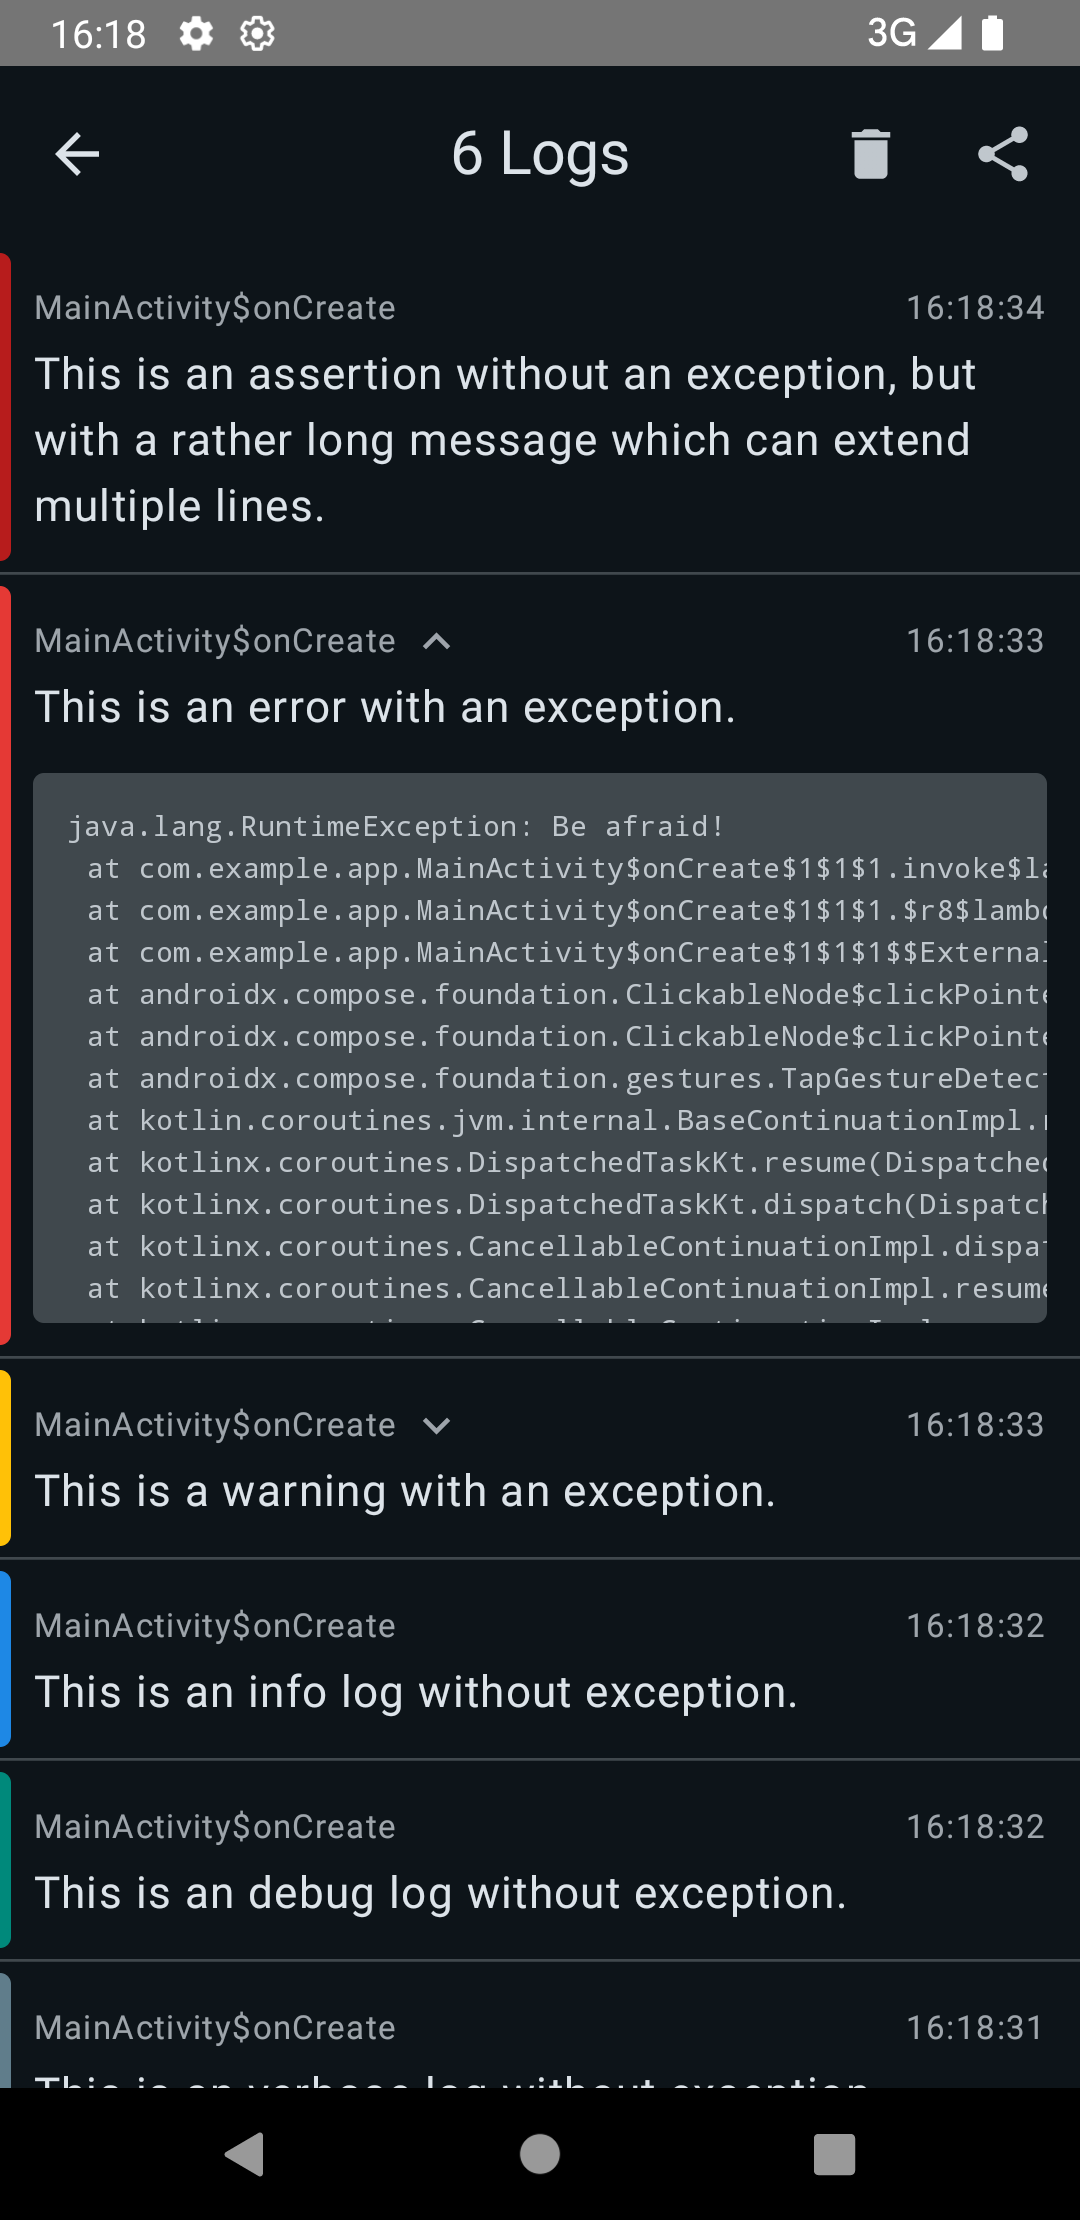
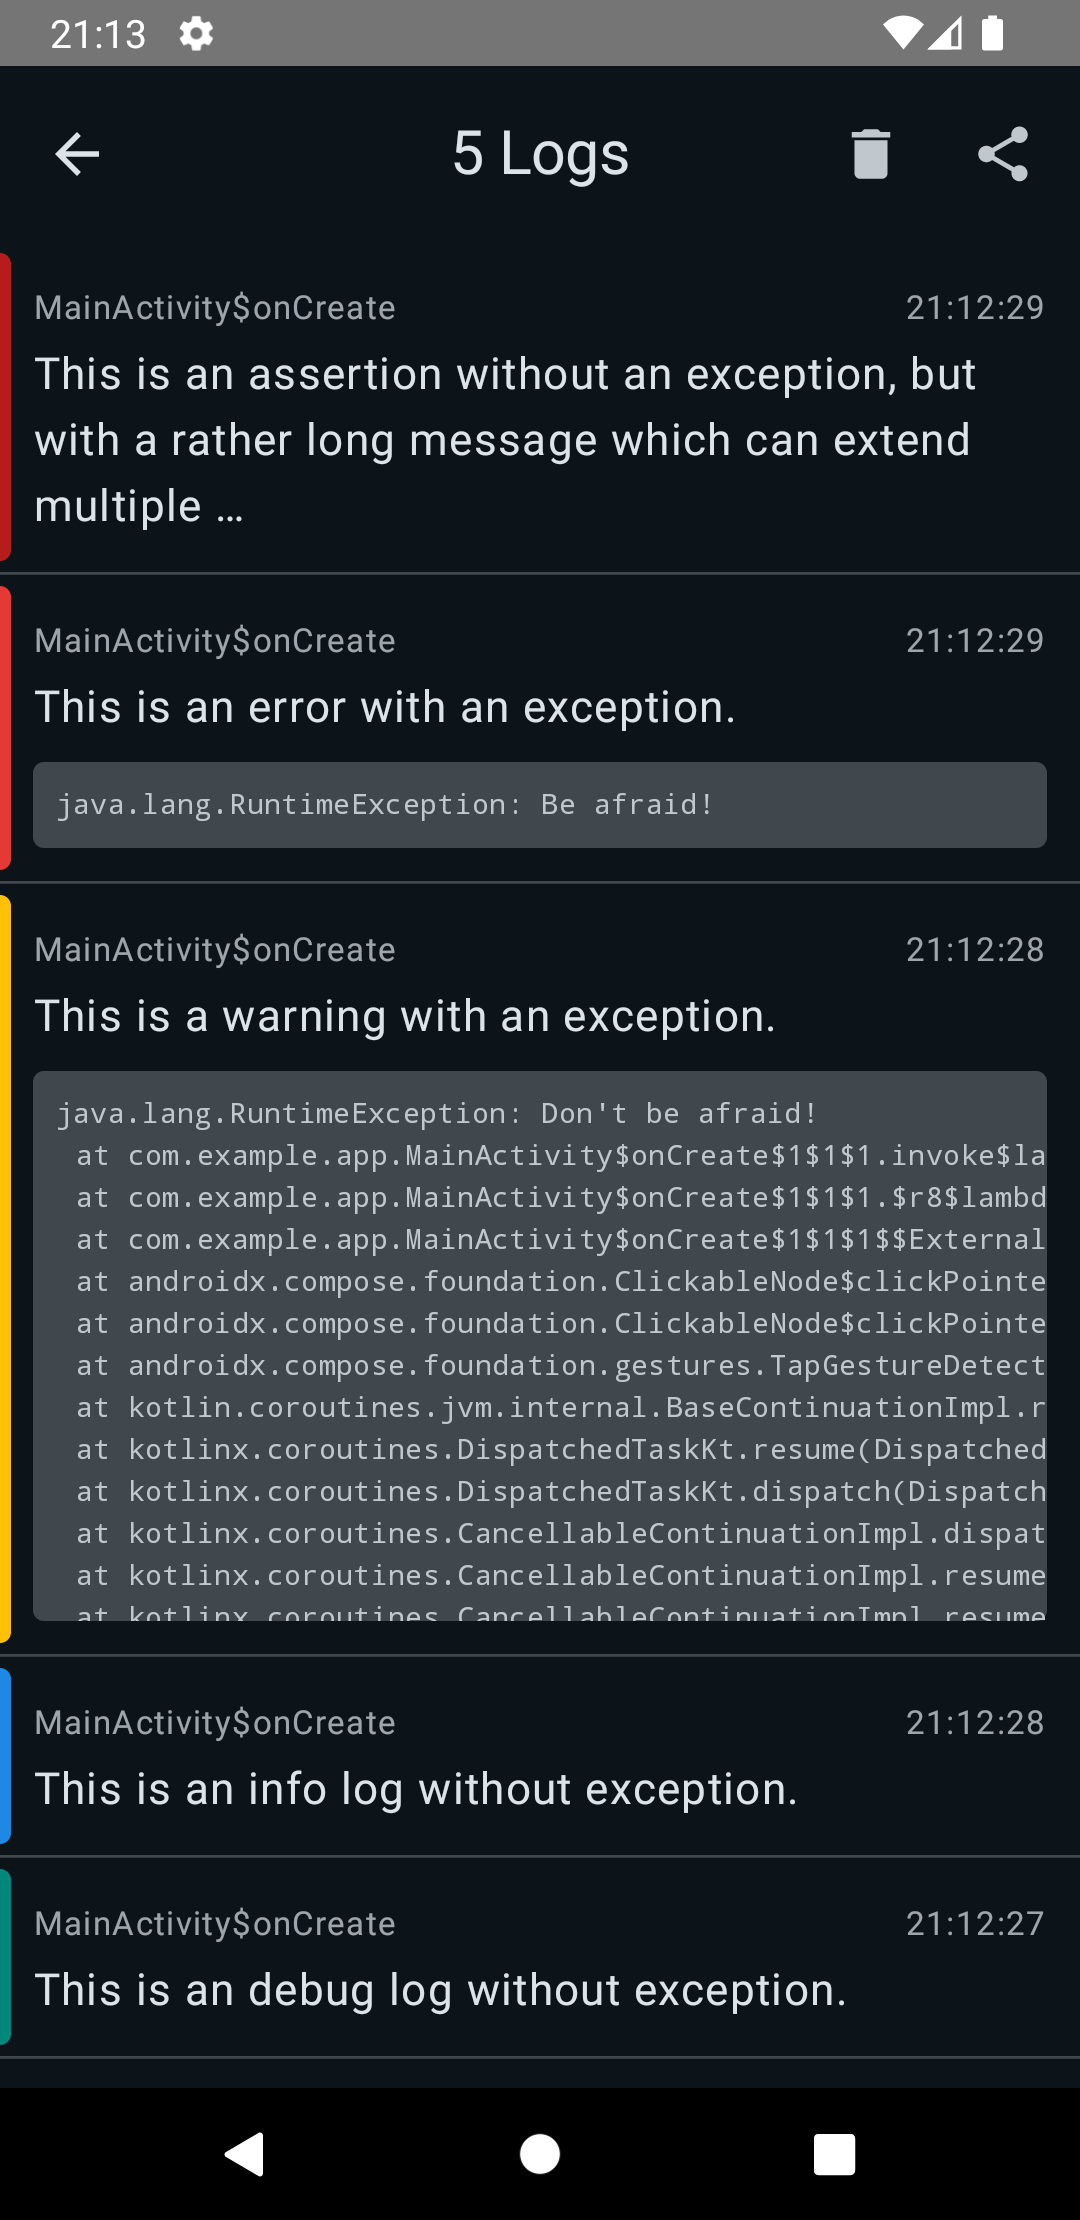
feat: improve message and exception display

diff --git a/shed/src/main/java/com/github/janmalch/shed/ui/LogEntry.kt b/shed/src/main/java/com/github/janmalch/shed/ui/LogEntry.kt
@@ -1,31 +1,27 @@
 package com.github.janmalch.shed.ui
 
 import android.util.Log
-import androidx.compose.animation.AnimatedVisibility
-import androidx.compose.animation.core.animateFloatAsState
+import androidx.compose.animation.animateContentSize
 import androidx.compose.foundation.background
 import androidx.compose.foundation.clickable
 import androidx.compose.foundation.horizontalScroll
+import androidx.compose.foundation.interaction.MutableInteractionSource
 import androidx.compose.foundation.layout.Arrangement
-import androidx.compose.foundation.layout.Box
 import androidx.compose.foundation.layout.Column
 import androidx.compose.foundation.layout.Row
+import androidx.compose.foundation.layout.Spacer
 import androidx.compose.foundation.layout.fillMaxWidth
+import androidx.compose.foundation.layout.height
 import androidx.compose.foundation.layout.heightIn
 import androidx.compose.foundation.layout.padding
-import androidx.compose.foundation.layout.size
 import androidx.compose.foundation.rememberScrollState
 import androidx.compose.foundation.shape.RoundedCornerShape
 import androidx.compose.foundation.verticalScroll
-import androidx.compose.material.icons.Icons
-import androidx.compose.material.icons.filled.KeyboardArrowDown
 import androidx.compose.material3.HorizontalDivider
-import androidx.compose.material3.Icon
 import androidx.compose.material3.LocalContentColor
 import androidx.compose.material3.MaterialTheme
 import androidx.compose.material3.Text
 import androidx.compose.runtime.Composable
-import androidx.compose.runtime.CompositionLocalProvider
 import androidx.compose.runtime.getValue
 import androidx.compose.runtime.mutableStateOf
 import androidx.compose.runtime.remember
@@ -33,23 +29,15 @@ import androidx.compose.runtime.saveable.rememberSaveable
 import androidx.compose.runtime.setValue
 import androidx.compose.ui.Alignment
 import androidx.compose.ui.Modifier
-import androidx.compose.ui.draw.alpha
-import androidx.compose.ui.draw.clipToBounds
 import androidx.compose.ui.draw.drawBehind
-import androidx.compose.ui.draw.drawWithCache
-import androidx.compose.ui.draw.rotate
 import androidx.compose.ui.geometry.Offset
 import androidx.compose.ui.geometry.Size
 import androidx.compose.ui.graphics.Color
 import androidx.compose.ui.platform.LocalDensity
 import androidx.compose.ui.platform.testTag
-import androidx.compose.ui.res.stringResource
 import androidx.compose.ui.text.font.FontFamily
-import androidx.compose.ui.text.style.TextAlign
-import androidx.compose.ui.text.style.TextOverflow
 import androidx.compose.ui.unit.dp
 import androidx.compose.ui.unit.sp
-import com.github.janmalch.shed.R
 import com.github.janmalch.shed.database.LogEntity
 
 
@@ -77,7 +65,6 @@ private fun priorityColor(priority: Int): Color = when (priority) {
 internal fun LogEntry(
     item: LogEntity,
 ) {
-    var isExpanded by rememberSaveable { mutableStateOf(false) }
     Column(
         modifier = Modifier
             .fillMaxWidth()
@@ -88,10 +75,6 @@ internal fun LogEntry(
             modifier = Modifier
                 .testTag("log_entry_${item.id}")
                 .fillMaxWidth()
-                .run {
-                    if (item.stackTrace == null) this
-                    else clickable { isExpanded = !isExpanded }
-                }
                 .drawBehind {
                     drawCircle(
                         borderColor,
@@ -116,64 +99,63 @@ internal fun LogEntry(
                 verticalAlignment = Alignment.CenterVertically,
                 modifier = Modifier.fillMaxWidth(),
             ) {
-                Row(
-                    horizontalArrangement = Arrangement.spacedBy(4.dp),
-                    verticalAlignment = Alignment.CenterVertically,
-                ) {
-                    Text(
-                        text = item.tag ?: "",
-                        fontSize = 12.sp,
-                        color = LocalContentColor.current.copy(alpha = 0.7f),
-                    )
-                    if (item.stackTrace != null) {
-                        val rotation by animateFloatAsState(
-                            targetValue = if (isExpanded) 180f else 0f,
-                            label = "chevron_rotation_${item.id}"
-                        )
-                        Icon(
-                            Icons.Filled.KeyboardArrowDown,
-                            contentDescription = stringResource(R.string.toggle_stack_trace),
-                            modifier = Modifier
-                                .size(20.dp)
-                                .alpha(0.7f)
-                                .rotate(rotation),
-                        )
-                    }
-                }
+                Text(
+                    text = item.tag ?: "",
+                    fontSize = 12.sp,
+                    color = LocalContentColor.current.copy(alpha = 0.7f),
+                )
                 Text(
                     text = LocalUiDateTimeFormatter.current.format(item.timestamp),
                     fontSize = 12.sp,
                     color = LocalContentColor.current.copy(alpha = 0.7f),
                 )
             }
-            Text(text = item.message)
+
+            if (item.message.length > 100) {
+                val abbreviated = remember(item.message) { item.message.take(100) + "…" }
+                var isCollapsed by rememberSaveable { mutableStateOf(true) }
+                Text(
+                    text = if (isCollapsed) abbreviated else item.message,
+                    modifier = Modifier
+                        .animateContentSize()
+                        .clickable(
+                            interactionSource = remember { MutableInteractionSource() },
+                            indication = null
+                        ) { isCollapsed = !isCollapsed }
+                )
+            } else {
+                Text(text = item.message)
+            }
 
             if (item.stackTrace != null) {
-                AnimatedVisibility(visible = isExpanded, label = "${item.id}_expansion") {
-                    Box(
-                        modifier = Modifier
-                            .fillMaxWidth()
-                            .padding(top = 12.dp)
-                    ) {
-                        Text(
-                            text = item.stackTrace ?: "",
-                            fontFamily = FontFamily.Monospace,
-                            fontSize = 10.sp,
-                            lineHeight = 15.sp,
-                            color = MaterialTheme.colorScheme.onSurfaceVariant,
-                            modifier = Modifier
-                                .fillMaxWidth()
-                                .heightIn(max = 200.dp)
-                                .background(
-                                    MaterialTheme.colorScheme.surfaceVariant,
-                                    RoundedCornerShape(4.dp)
-                                )
-                                .horizontalScroll(rememberScrollState())
-                                .verticalScroll(rememberScrollState())
-                                .padding(12.dp)
+                Spacer(Modifier.height(8.dp))
+
+                val abbreviated =
+                    remember(item.stackTrace) { item.stackTrace.substringBefore('\n') }
+                var isCollapsed by rememberSaveable { mutableStateOf(true) }
+
+                Text(
+                    text = if (isCollapsed) abbreviated else item.stackTrace,
+                    fontFamily = FontFamily.Monospace,
+                    fontSize = 10.sp,
+                    lineHeight = 15.sp,
+                    color = MaterialTheme.colorScheme.onSurfaceVariant,
+                    modifier = Modifier
+                        .fillMaxWidth()
+                        .heightIn(max = 200.dp)
+                        .background(
+                            MaterialTheme.colorScheme.surfaceVariant,
+                            RoundedCornerShape(4.dp)
                         )
-                    }
-                }
+                        .horizontalScroll(rememberScrollState())
+                        .verticalScroll(rememberScrollState())
+                        .padding(8.dp)
+                        .animateContentSize()
+                        .clickable(
+                            interactionSource = remember { MutableInteractionSource() },
+                            indication = null
+                        ) { isCollapsed = !isCollapsed }
+                )
             }
         }
         HorizontalDivider()

diff --git a/app/src/main/java/com/example/app/MainActivity.kt b/app/src/main/java/com/example/app/MainActivity.kt
@@ -79,9 +79,25 @@ class MainActivity : ComponentActivity() {
                         }) {
                             Text("View Logs")
                         }
+                        HorizontalDivider()
+                        Button(onClick = {
+                            Timber.i(SOME_LONG_MESSAGE)
+                        }) {
+                            Text("Add 200 chars Info Log")
+                        }
+                        Button(onClick = {
+                            Timber.e(RuntimeException("Be afraid!"), SOME_LONG_MESSAGE)
+                        }) {
+                            Text("Add 200 chars Error Log")
+                        }
                     }
                 }
             }
         }
     }
 }
+
+private const val SOME_LONG_MESSAGE =
+    "Lorem ipsum dolor sit amet, consetetur sadipscing elitr, sed diam nonumy eirmod tempor invidunt ut labore et dolore magna aliquyam erat, sed diam voluptua. At vero eos et accusam et justo duo dolores et ea rebum. Stet clita kasd gubergren, no sea takimata sanctus est Lorem ipsum dolor sit amet. Lorem ipsum dolor sit amet, consetetur sadipscing elitr, sed diam nonumy eirmod tempor invidunt ut labore et dolore magna aliquyam erat, sed diam voluptua. At vero eos et accusam et justo duo dolores et ea rebum. Stet clita kasd gubergren, no sea takimata sanctus est Lorem ipsum dolor sit amet. Lorem ipsum dolor sit amet, consetetur sadipscing elitr, sed diam nonumy eirmod tempor invidunt ut labore et dolore magna aliquyam erat, sed diam voluptua. At vero eos et accusam et justo duo dolores et ea rebum. Stet clita kasd gubergren, no sea takimata sanctus est Lorem ipsum dolor sit amet.   \n" +
+            "\n" +
+            "Duis autem vel eum iriure dolor in hendrerit in vulputate velit esse molestie consequat, vel illum dolore eu feugiat nulla facilisis at vero eros et accumsan et iusto odio dignissim qui blandit praesent luptatum zzril delenit augue duis dolore te feugait nulla facilisi. Lorem ipsum dolor sit amet,"
